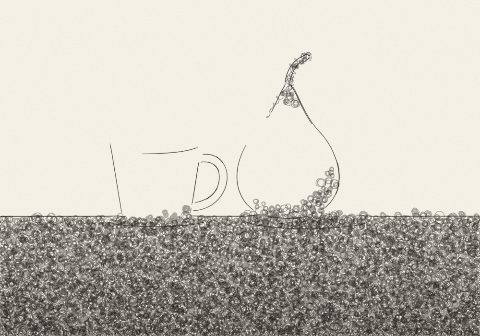
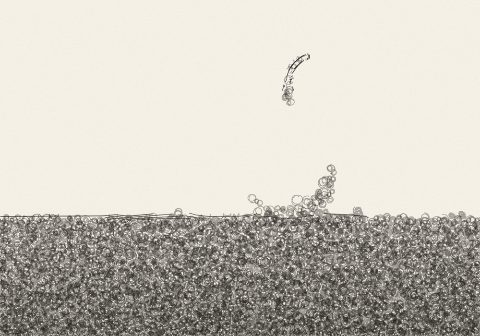
로컬 엔진: 실제 사진(빽빽한 나무·물 반영)에 맞춘 보정, 담채 목표 색 수정
사용자 사진(호수·정자·숲) 결과: 담채는 물빠진 회색, 펜은 고리선과 사선 줄만 남고 정자가 사라짐.
- 윤곽 세기 = max(색 경계/(1+4·texture), 덩어리 경계(뭉갠 밝기)×texture, 색상(chroma) 경계) —
  잔결 속의 지붕·기둥·노란 나무처럼 색이 다른 구조물을 살린다
- 잔결 영역의 윤곽 접선은 뭉갠 밝기 그라디언트에 수직 — 지역 방향장을 쓰면 잎 속을 벌레처럼 꿈틀거림
- 방향장: 넓은 범위 확실성(aniso)이 높은 잔결(물결·풀)은 방향을 살리고, 잎 뭉치는 기준 각도로.
  dirAt 과 획 방향 갱신은 잔결일수록 더 확실할 때만 방향장을 따른다
- 나뭇잎 고리선은 방향 없는 잔결에서 첫 훑기에만, 크기는 선 굵기에 묶음. 잔결의 획은 짧게, 목표 어둡기는 더 옅게
- 담채 목표 색: 펜 어둡기 지도 대신 여백 문턱 아래의 사진 색을 채도 1.35배로 종이에 곱한다. 펜은 ref 0.5 이상, 윤곽 임계 1.15배
- 갤러리 예시 그림 재생성, CLAUDE.md 갱신

Claude-Session: https://claude.ai/code/session_01Hvnc9GgokccTnGmXxLxTkb

diff --git a/src/render.ts b/src/render.ts
@@ -134,6 +134,20 @@ function colorEdgeMag(grads: Array<{ gx: Float32Array; gy: Float32Array }>, N: n
   return out;
 }
 
+/** 색상 경계: 밝기를 뺀 색도(r/합, g/합)의 그라디언트. 잎끼리(같은 녹색)는 작고, 지붕·기둥·노란 나무와 녹색 사이는 크다 */
+function chromaEdgeMag(img: RawImage, w: number, h: number): Float32Array {
+  const N = w * h;
+  const cr = new Float32Array(N), cg = new Float32Array(N);
+  for (let i = 0, j = 0; i < img.data.length; i += 4, j++) {
+    const r = img.data[i], g = img.data[i + 1], b = img.data[i + 2], sum = r + g + b + 30;
+    cr[j] = r / sum; cg[j] = g / sum;
+  }
+  const a = sobel(boxBlur(cr, w, h, 2), w, h), b2 = sobel(boxBlur(cg, w, h, 2), w, h);
+  const out = new Float32Array(N);
+  for (let i = 0; i < N; i++) out[i] = Math.hypot(a.mag[i], b2.mag[i]);
+  return out;
+}
+
 /**
  * 잔결 정도 0..1: 주변에 경계 화소가 얼마나 빽빽한가. 나뭇잎·풀·물결은 높고, 컵 윤곽처럼 경계가 하나뿐인 곳은 낮다.
  * 잔결 영역은 지역 방향이 소음이므로 기준 각도로 통일하고, 윤곽선을 누르고, 목표 어둡기를 조금 낮춘다 (잎 사이로 종이가 비쳐야 잎으로 읽힌다).
@@ -194,7 +208,8 @@ function manualField(guides: DirectionGuide[], radiusPct: number, w: number, h: 
   return { tx, ty, wgt };
 }
 
-interface Field { tx: Float32Array; ty: Float32Array; coh: Float32Array; man: Float32Array }
+/** aniso: 넓은 범위(반경 28)의 방향 확실성 — 잔결이라도 물결처럼 한 방향으로 흐르면 높다 (잎 뭉치는 낮다) */
+interface Field { tx: Float32Array; ty: Float32Array; coh: Float32Array; man: Float32Array; aniso: Float32Array }
 
 /**
  * 면의 방향장 (DAP 의 Feature Follow): 세 채널 구조 텐서로 각 화소 주변의 지배적 경계 방향을 구한다.
@@ -207,16 +222,17 @@ function orientationField(grads: Array<{ gx: Float32Array; gy: Float32Array }>, 
   for (const { gx, gy } of grads) for (let i = 0; i < N; i++) { jxx[i] += gx[i] * gx[i]; jyy[i] += gy[i] * gy[i]; jxy[i] += gx[i] * gy[i]; }
   const fine = [boxBlur(jxx, w, h, 7), boxBlur(jyy, w, h, 7), boxBlur(jxy, w, h, 7)];
   const coarse = [boxBlur(jxx, w, h, 28), boxBlur(jyy, w, h, 28), boxBlur(jxy, w, h, 28)];
-  const tx = new Float32Array(N), ty = new Float32Array(N), coh = new Float32Array(N), man = new Float32Array(N);
+  const tx = new Float32Array(N), ty = new Float32Array(N), coh = new Float32Array(N), man = new Float32Array(N), aniso = new Float32Array(N);
   for (let i = 0; i < N; i++) {
+    const ca = coarse[0][i] - coarse[1][i], cb = 2 * coarse[2][i], ce = coarse[0][i] + coarse[1][i];
+    const cc = ce > 0.004 ? Math.sqrt(ca * ca + cb * cb) / (ce + 1e-4) : 0;
+    aniso[i] = cc;
     let a = fine[0][i] - fine[1][i], b = 2 * fine[2][i], e = fine[0][i] + fine[1][i];
     let c = e > 0.02 ? Math.sqrt(a * a + b * b) / (e + 1e-4) : 0;
-    if (c < 0.2) {
-      a = coarse[0][i] - coarse[1][i]; b = 2 * coarse[2][i]; e = coarse[0][i] + coarse[1][i];
-      c = e > 0.004 ? Math.sqrt(a * a + b * b) / (e + 1e-4) * 0.9 : 0;
-    }
+    if (c < 0.2) { a = ca; b = cb; c = cc * 0.9; }
     let th = 0.5 * Math.atan2(b, a) + Math.PI / 2; // 그래디언트에 수직 = 경계를 따라가는 방향
-    c *= 1 - texture[i] * 0.9;
+    // 잔결이라도 물결·풀처럼 넓게 한 방향으로 흐르면(aniso) 방향을 살리고, 잎 뭉치처럼 방향이 없으면 기준 각도로 돌아간다
+    c *= 1 - texture[i] * 0.9 * (1 - clamp((cc - 0.35) * 3, 0, 1));
     if (manual && manual.wgt[i] > 0.01) {
       const m = manual.wgt[i];
       const a2 = 2 * th, b2 = 2 * Math.atan2(manual.ty[i], manual.tx[i]);
@@ -228,7 +244,7 @@ function orientationField(grads: Array<{ gx: Float32Array; gy: Float32Array }>, 
     tx[i] = Math.cos(th); ty[i] = Math.sin(th);
     coh[i] = c;
   }
-  return { tx, ty, coh, man };
+  return { tx, ty, coh, man, aniso };
 }
 
 /** 1차원 부드러운 난수 (-1~1): 가장자리 흐림의 불규칙한 경계에 씀 */
@@ -361,7 +377,8 @@ interface Ctx {
 function dirAt(c: Ctx, i: number, rot: number): [number, number] {
   const wf = Math.max(c.ff * c.field.coh[i], c.field.man[i]);
   let th: number;
-  if (wf < 0.12) th = c.base;
+  // 잔결 영역의 지역 방향은 소음이라 더 확실할 때만 따른다 (아니면 획이 벌레처럼 꿈틀거린다)
+  if (wf < 0.12 + 0.5 * c.texture[i]) th = c.base;
   else {
     const a2 = 2 * Math.atan2(c.field.ty[i], c.field.tx[i]), b2 = 2 * c.base;
     th = 0.5 * Math.atan2(wf * Math.sin(a2) + (1 - wf) * Math.sin(b2), wf * Math.cos(a2) + (1 - wf) * Math.cos(b2));
@@ -400,7 +417,7 @@ function penStroke(c: Ctx, ref: Float32Array, x0: number, y0: number, L: number,
       cv.dot(x - dy * wob, y + dx * wob, r * (0.65 + 0.35 * taper) * pressure, 0.75 + 0.25 * taper);
       // 방향장을 조금씩 따라감 (부호는 이전 방향과 맞춤)
       const wf = Math.max(c.ff * c.field.coh[i], c.field.man[i]);
-      if (wf > 0.12) {
+      if (wf > 0.12 + 0.5 * c.texture[i]) {
         let [fx, fy] = dirAt(c, i, rot);
         if (fx * dx + fy * dy < 0) { fx = -fx; fy = -fy; }
         const k = 0.12 + 0.2 * wf;
@@ -424,7 +441,7 @@ function loopStroke(c: Ctx, ref: Float32Array, x0: number, y0: number, R: number
   const i0 = (y0 | 0) * w + (x0 | 0);
   const D0 = ref[i0];
   if (D0 <= 0.01) return;
-  const rr = clamp(R * (0.25 + rng() * 0.3), lw * 1.5, lw * 4.5);
+  const rr = clamp(R * (0.2 + rng() * 0.25), lw * 1.2, lw * 3);
   const turns = 1.3 + rng() * 0.5, ph = rng() * 6.28;
   for (let t = 0; t < turns * 6.283; t += 0.22) {
     const px = x0 + rr * Math.cos(t + ph) * (1 + 0.15 * Math.sin(t * 3)), py = y0 + rr * 0.7 * Math.sin(t + ph);
@@ -464,8 +481,15 @@ function scribbleStroke(c: Ctx, ref: Float32Array, x0: number, y0: number, L: nu
  * 색 경계를 따라가는 윤곽선 (DAP 의 edge 층). 셀마다 경계가 가장 센 자리에서 출발해 경계 접선을 따라 양쪽으로 긋고,
  * 지나간 자리는 표시해 같은 경계를 두 번 긋지 않는다. 잔결(나뭇잎) 영역은 눌러서 잎 덩어리가 검게 뭉치지 않게 한다.
  */
-function edgePass(c: Ctx, mag: Float32Array, th: number, widthMul: number, alphaMul: number) {
+function edgePass(c: Ctx, mag: Float32Array, mass: { mag: Float32Array; gx: Float32Array; gy: Float32Array }, chroma: Float32Array, th: number, widthMul: number, alphaMul: number) {
   const { cv, w, h, N, rng, lw, texture, field } = c;
+  const massMag = mass.mag;
+  // 경계 접선: 잔결 영역에서는 지역 방향장이 소음이므로 뭉갠 밝기의 그라디언트에 수직인 방향을 쓴다
+  const tangent = (i: number): [number, number] => {
+    if (texture[i] < 0.4) return [field.tx[i], field.ty[i]];
+    const gx = mass.gx[i], gy = mass.gy[i], n = Math.hypot(gx, gy) || 1;
+    return [-gy / n, gx / n];
+  };
   const done = new Int32Array(N); // 0 = 아직, n = n번째 윤곽 획이 지나감
   let sid = 0;
   const g = Math.max(2, lw * 2.2);
@@ -473,7 +497,8 @@ function edgePass(c: Ctx, mag: Float32Array, th: number, widthMul: number, alpha
   const order = shuffled(cols * rows, rng);
   const maxLen = Math.min(w, h) * 0.35;
   const r = (lw * widthMul) / 2;
-  const strength = (i: number) => mag[i] * (1 - texture[i] * 0.85);
+  // 잔결(나뭇잎)에서는 센 경계만 남기고, 대신 뭉갠 밝기의 경계(잎 뭉치의 덩어리 윤곽)를 살린다 — 리천 드로잉의 뭉게구름 같은 나무 윤곽
+  const strength = (i: number) => Math.max(mag[i] / (1 + 4 * texture[i]), massMag[i] * texture[i] * 1.6, chroma[i] * 1.4);
   const mark = (x: number, y: number) => {
     const m = Math.max(1, Math.round(g * 0.5));
     for (let yy = Math.max(0, y - m); yy <= Math.min(h - 1, y + m); yy++) for (let xx = Math.max(0, x - m); xx <= Math.min(w - 1, x + m); xx++) done[yy * w + xx] = sid;
@@ -489,7 +514,7 @@ function edgePass(c: Ctx, mag: Float32Array, th: number, widthMul: number, alpha
     const x0 = (bi % w) + 0.5, y0 = Math.floor(bi / w) + 0.5;
     const i0 = bi;
     // 접선 방향: 방향장(경계에서 확실함)
-    const t0: [number, number] = [field.tx[i0], field.ty[i0]];
+    const t0 = tangent(i0);
     let drawn = 0;
     for (const sign of [1, -1]) {
       let dx = t0[0] * sign, dy = t0[1] * sign, x = x0, y = y0, dup = 0;
@@ -498,7 +523,7 @@ function edgePass(c: Ctx, mag: Float32Array, th: number, widthMul: number, alpha
         if (xi < 0 || yi < 0 || xi >= w || yi >= h) break;
         const i = yi * w + xi;
         const m = strength(i);
-        if (m < th * 0.45) break;
+        if (m < th * (0.45 + 0.3 * texture[i])) break;
         // 다른 윤곽 획이 이미 지나간 자리로 들어가면 조금 겹친 뒤 멈춘다
         if (done[i] && done[i] !== sid) { if (++dup > 4) break; }
         mark(xi, yi);
@@ -506,7 +531,7 @@ function edgePass(c: Ctx, mag: Float32Array, th: number, widthMul: number, alpha
         cv.dot(x, y, r * (0.6 + 0.4 * Math.min(1, k)), 0.6 + 0.4 * Math.min(1, k));
         drawn++;
         // 경계 접선을 따라감 (부호 유지)
-        let fx = field.tx[i], fy = field.ty[i];
+        let [fx, fy] = tangent(i);
         if (fx * dx + fy * dy < 0) { fx = -fx; fy = -fy; }
         dx = dx * 0.6 + fx * 0.4; dy = dy * 0.6 + fy * 0.4;
         const n = Math.hypot(dx, dy) || 1; dx /= n; dy /= n;
@@ -579,10 +604,11 @@ function sweep(c: Ctx, ref: Float32Array, R: number, sw: Sweep, T: number, L: nu
     }
     if (sw.kind === 'scribble') { scribbleStroke(c, ref, x0, y0, len * 1.6); continue; }
     // pen 붓: 잔결(나뭇잎)은 획 대신 고리 선
-    if (c.p.brush === 'pen' && c.texture[i0] > 0.6 && rng() < c.texture[i0]) { loopStroke(c, ref, x0, y0, R); continue; }
+    if (c.p.brush === 'pen' && !sw.rot && c.texture[i0] > 0.45 && c.field.aniso[i0] < 0.45 && rng() < c.texture[i0] + 0.2) { loopStroke(c, ref, x0, y0, R); continue; }
     let Lc = len;
-    // 방향이 없는 곳(하늘·평면)은 길게
-    if (c.field.coh[i0] < 0.15 && c.field.man[i0] < 0.1) Lc *= 1.7;
+    // 방향이 없는 평탄한 곳(하늘·벽)은 길게. 잔결 영역은 짧게 (긴 줄이 생기면 풀밭처럼 보인다)
+    if (c.field.coh[i0] < 0.15 && c.field.man[i0] < 0.1 && c.texture[i0] < 0.3) Lc *= 1.7;
+    else if (c.texture[i0] > 0.5) Lc *= 0.6;
     penStroke(c, ref, x0, y0, Lc, sw.rot ?? 0);
   }
 }
@@ -650,10 +676,10 @@ function washSweep(c: Ctx, want: Float32Array, R: number, T: number, onTick?: (f
 }
 
 /** 담채의 목표 색: 사진 색을 크게 뭉개고 물감처럼 밝게 띄운 뒤 목표 어둡기만큼 종이에 곱한다 */
-function washTarget(img: RawImage, lum: Float32Array, target: Float32Array, w: number, h: number, paper: RGB, mode: ColorMode): Float32Array {
+function washTarget(img: RawImage, lum: Float32Array, white: number, w: number, h: number, paper: RGB, mode: ColorMode): Float32Array {
   const N = w * h;
   const want = new Float32Array(N * 3);
-  const R0 = Math.max(3, Math.round(Math.min(w, h) / 110));
+  const R0 = Math.max(2, Math.round(Math.min(w, h) / 220));
   const chans: Float32Array[] = [0, 1, 2].map((k) => {
     const a = new Float32Array(N);
     for (let i = 0, q = 0; i < img.data.length; i += 4, q++) a[q] = img.data[i + k] / 255;
@@ -661,14 +687,18 @@ function washTarget(img: RawImage, lum: Float32Array, target: Float32Array, w: n
   });
   const softL = boxBlur(lum, w, h, R0);
   for (let i = 0; i < N; i++) {
-    const d = target[i];
+    const L = softL[i];
     const o = i * 3;
-    if (d <= 0.01) { want[o] = paper[0]; want[o + 1] = paper[1]; want[o + 2] = paper[2]; continue; }
-    const op = clamp(0.3 + 0.7 * d, 0, 0.92);
+    // 여백 문턱 위는 종이, 그 아래는 사진 색을 물감처럼 조금 띄우고 채도를 살려 종이에 곱한다. 문턱 근처는 부드럽게 이어진다
+    const op = clamp((white + 0.08 - L) / 0.16, 0, 1) * 0.9;
+    if (op <= 0.01) { want[o] = paper[0]; want[o + 1] = paper[1]; want[o + 2] = paper[2]; continue; }
     let tr: number, tg: number, tb: number;
-    if (mode === 'color') { tr = chans[0][i] * 0.7 + 0.3; tg = chans[1][i] * 0.7 + 0.3; tb = chans[2][i] * 0.7 + 0.3; }
-    else {
-      const g = softL[i] * 0.7 + 0.3;
+    if (mode === 'color') {
+      const r = chans[0][i], g = chans[1][i], b = chans[2][i], m = (r + g + b) / 3;
+      const sat = 1.35; // 담채는 사진보다 맑고 선명하게
+      tr = clamp(m + (r - m) * sat, 0, 1) * 0.85 + 0.15; tg = clamp(m + (g - m) * sat, 0, 1) * 0.85 + 0.15; tb = clamp(m + (b - m) * sat, 0, 1) * 0.85 + 0.15;
+    } else {
+      const g = L * 0.8 + 0.2;
       if (mode === 'sepia') { tr = g * 0.92 + 0.08; tg = g * 0.82 + 0.1; tb = g * 0.66 + 0.1; } else { tr = g; tg = g; tb = g; }
     }
     want[o] = paper[0] * (1 - op * (1 - tr)); want[o + 1] = paper[1] * (1 - op * (1 - tg)); want[o + 2] = paper[2] * (1 - op * (1 - tb));
@@ -737,7 +767,7 @@ export function renderDrawing(img: RawImage, opts: RenderOpts): RawImage {
     const L = smooth[i];
     if (L >= white) continue;
     const d = (white - L) / white;
-    target[i] = (0.07 + 0.75 * Math.pow(d, 1.35)) * (1 - texture[i] * 0.35);
+    target[i] = (0.07 + 0.75 * Math.pow(d, 1.35)) * (1 - texture[i] * 0.5);
   }
 
   const paper = paperFor(opts.color, p);
@@ -776,7 +806,7 @@ export function renderDrawing(img: RawImage, opts: RenderOpts): RawImage {
 
   // 2) 층: 큰 획 → 작은 획. 층마다 목표를 획 크기만큼 뭉갠 참조를 본다 (큰 획은 큰 형태만).
   if (p.brush === 'wash') {
-    const want = washTarget(img, lum, target, w, h, paper, opts.color);
+    const want = washTarget(img, lum, white, w, h, paper, opts.color);
     for (let k = 0; k < passes; k++) {
       const R = Math.max(4, sizes[k] * 1.3);
       washSweep(c, want, R, 4 + 10 * (1 - acc), (f) => report(k, f));
@@ -785,7 +815,7 @@ export function renderDrawing(img: RawImage, opts: RenderOpts): RawImage {
     // 펜: 가장 어두운 곳에만 성긴 획
     const ref = boxBlur(target, w, h, 1);
     const R = sizes[passes - 1];
-    sweep(c, ref, R, { rot: 0, minRef: 0.62, gMul: 1.8 }, T + 0.1, R * 3);
+    sweep(c, ref, R, { rot: 0, minRef: 0.5, gMul: 1.6 }, T + 0.05, R * 3);
   } else {
     const sweeps = sweepsFor(p);
     for (let k = 0; k < passes; k++) {
@@ -805,9 +835,10 @@ export function renderDrawing(img: RawImage, opts: RenderOpts): RawImage {
   // 3) 윤곽선: 색 경계를 따라가는 획
   const edges = clamp(p.edges, 0, 100);
   if (edges > 0) {
-    const th = (0.30 - 0.20 * edges / 100) * (p.brush === 'wash' ? 1.4 : 1);
+    const th = (0.30 - 0.20 * edges / 100) * (p.brush === 'wash' ? 1.15 : 1);
     const widthMul = p.brush === 'contour' ? 1.15 : 1;
-    edgePass(c, mag, th, widthMul, p.brush === 'contour' ? 1 : 0.9);
+    const mass = sobel(boxBlur(lum, w, h, Math.max(3, Math.round(minSide / 60))), w, h);
+    edgePass(c, mag, mass, chromaEdgeMag(img, w, h), th, widthMul, p.brush === 'contour' ? 1 : 0.9);
   }
 
   // 4) 가장자리 미완성 처리, 5) 합성
